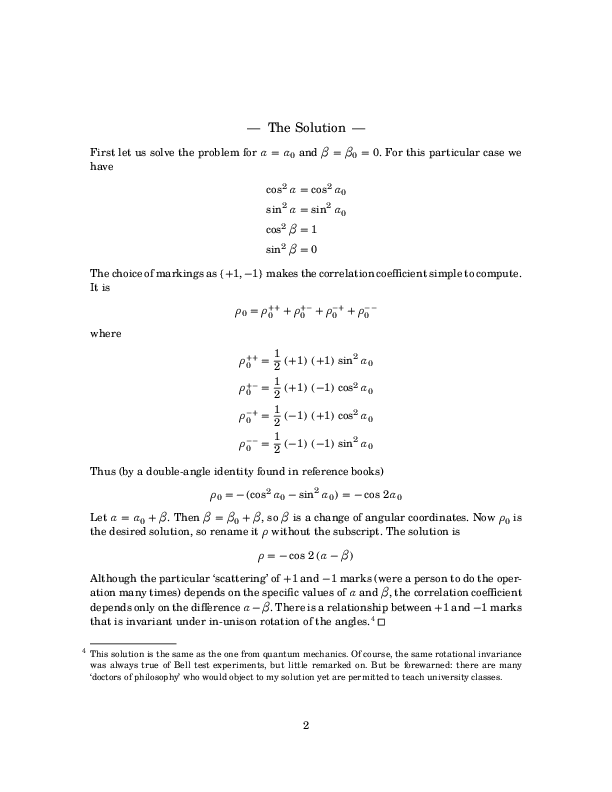
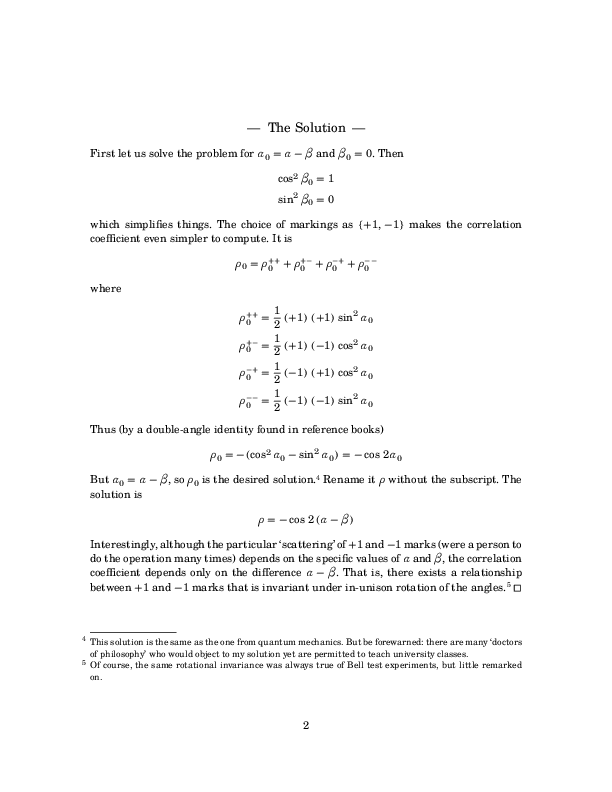
Simplest presentation yet of the proof.

diff --git a/Cookies-for-Alice-and-Bob/Cookies-for-Alice-and-Bob.tex b/Cookies-for-Alice-and-Bob/Cookies-for-Alice-and-Bob.tex
@@ -98,18 +98,16 @@
 
 \subject{The Solution}
 
-First let us solve the problem for $\alpha=\alpha_0$
-and~$\beta=\beta_0=0$. For this particular case we have
+First let us solve the problem for $\alpha_0=\alpha-\beta$
+and~$\beta_0=0$. Then
 \startformula
   \startmathalignment [n=2, align={right,left}]
-    \NC\cos^2\alpha\NC=\cos^2\alpha_0 \NR
-    \NC\sin^2\alpha\NC=\sin^2\alpha_0 \NR
-    \NC\cos^2\beta\NC= 1 \NR
-    \NC\sin^2\beta\NC= 0 \NR
+    \NC\cos^2\beta_0\NC= 1 \NR
+    \NC\sin^2\beta_0\NC= 0 \NR
   \stopmathalignment
 \stopformula
-The choice of markings as $\{+1,-1\}$ makes the correlation
-coefficient simple to compute. It is
+which simplifies things. The choice of markings as $\{+1,-1\}$ makes
+the correlation coefficient even simpler to compute. It is
 \startformula
 \rho_0=\rho_0^{++}+\rho_0^{+-}+\rho_0^{-+}+\rho_0^{--}
 \stopformula
@@ -128,21 +126,22 @@ Thus (by a double-angle identity found in reference books)
 \startformula
   \rho_0=-(\cos^2\alpha_0-\sin^2\alpha_0)=-\cos\,2\alpha_0
 \stopformula
-Let~$\alpha=\alpha_0+\beta$. Then~$\beta=\beta_0+\beta$, so~$\beta$ is
-a change of angular coordinates. Now~$\rho_0$ is the desired solution,
-so rename it~$\rho$ without the subscript. The solution is
+But~$\alpha_0=\alpha-\beta$, so~$\rho_0$ is the desired
+solution.\footnote{This solution is the same as the one from quantum
+  mechanics. But be forewarned: there are many ‘doctors of philosophy’
+  who would object to my solution yet are permitted to teach
+  university classes.}  Rename it~$\rho$ without the subscript. The
+solution is
 \startformula
   \rho=-\cos\,2(\alpha-\beta)
 \stopformula
-Although the particular ‘scattering’ of~$+1$ and~$-1$ marks (were a
-person to do the operation many times) depends on the specific values
-of~$\alpha$ and~$\beta$, the correlation coefficient depends only on
-the difference~$\alpha-\beta$. There is a relationship between~$+1$
-and~$-1$ marks that is invariant under in-unison rotation of the
-angles.\footnote{This solution is the same as the one from quantum
-  mechanics. Of course, the same rotational invariance was always true
-  of Bell test experiments, but little remarked on. But be forewarned:
-  there are many ‘doctors of philosophy’ who would object to my
-  solution yet are permitted to teach university classes.}~$\square$
+Interestingly, although the particular ‘scattering’ of~$+1$ and~$-1$
+marks (were a person to do the operation many times) depends on the
+specific values of~$\alpha$ and~$\beta$, the correlation coefficient
+depends only on the difference~$\alpha-\beta$. That is, there exists a
+relationship between~$+1$ and~$-1$ marks that is invariant under
+in-unison rotation of the angles.\footnote{Of course, the same rotational
+  invariance was always true of Bell test experiments, but little
+  remarked on.}~$\square$
 
 \stoptext
